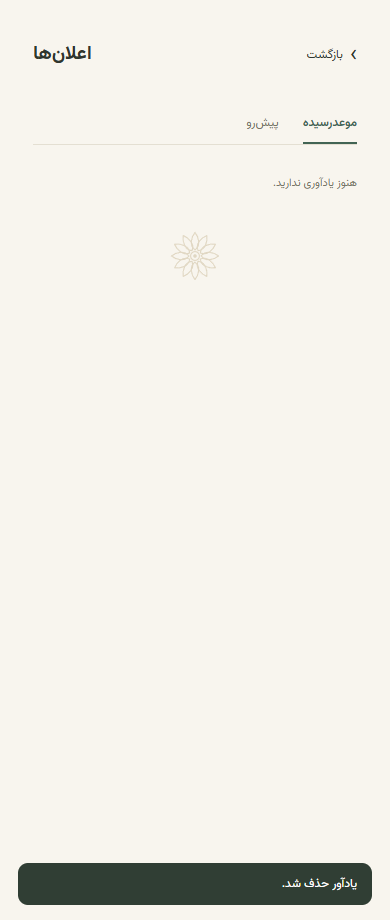
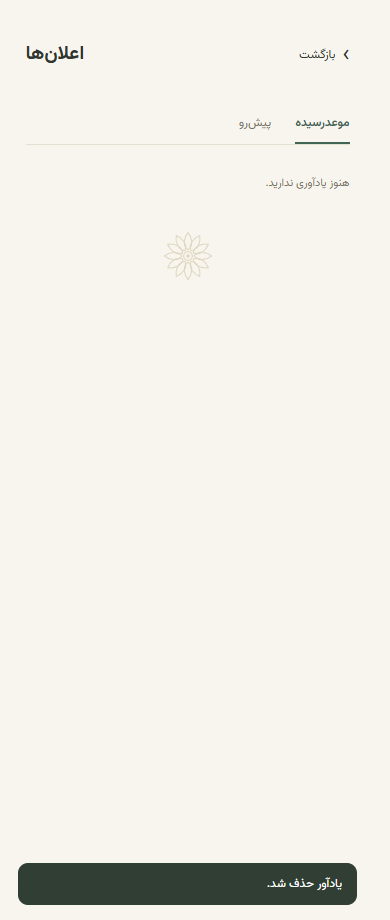
Stabilize month picker and calendar layout with consistent controls

diff --git a/app.js b/app.js
@@ -39,7 +39,7 @@ function renderNotes(){
     const actions=document.createElement('div');actions.className='note-actions';
     const created=creationLabel(note.createdAt);if(created)actions.append(created);
     const edit=document.createElement('button');edit.className='text-button';edit.textContent='ویرایش';edit.setAttribute('aria-label',`ویرایش یادداشت ${note.text.slice(0,40)}`);
-    edit.addEventListener('click',async()=>{if(draftDirty){notify('ابتدا یادداشت در حال نوشتن را ذخیره کنید.');return;}if(note.seriesId){const scope=await chooseScope('ویرایش تکرار');if(!scope)return;editingSeries=note.seriesId;editScope=scope;loadRepeat(data[`series:${note.seriesId}`],scope);}else{editingSeries=null;editScope=null;resetRepeat();}editingNote=note.key;$('note').value=note.text;$('remind-toggle').checked=(note.key.startsWith('reminder:')||note.remind);$('reminder-time').value=note.time||'09:00';updateComposer();$('note-status').textContent='ویرایش یادداشت';$('note').focus();});
+    edit.addEventListener('click',async()=>{if(draftDirty){notify('ابتدا یادداشت در حال نوشتن را ذخیره کنید.');return;}if(note.seriesId){const scope=await chooseScope('ویرایش تکرار');if(!scope)return;editingSeries=note.seriesId;editScope=scope;loadRepeat(data[`series:${note.seriesId}`],scope);}else{editingSeries=null;editScope=null;resetRepeat();}editingNote=note.key;$('note').value=note.text;$('remind-toggle').checked=(note.key.startsWith('reminder:')||note.remind);$('reminder-time').value=note.time||'09:00';updateComposer();$('note-status').textContent='ویرایش یادداشت';$('note').focus({preventScroll:true});});
     const remove=document.createElement('button');remove.className='text-button delete-note';remove.textContent='حذف';remove.setAttribute('aria-label',`حذف یادداشت ${note.text.slice(0,40)}`);
     remove.addEventListener('click',async()=>{remove.disabled=true;try{if(note.seriesId){const scope=await chooseScope('حذف تکرار');if(!scope){remove.disabled=false;return;}await request({type:'delete-series',seriesId:note.seriesId,date:note.date,scope});}else if((note.key.startsWith('reminder:')||note.remind))await request({type:'delete',id:note.id});else await storage.remove(note.key);if(editingNote===note.key){editingNote=null;editingSeries=null;editScope=null;resetRepeat();draftDirty=false;$('note').value='';$('remind-toggle').checked=false;drafts.delete(note.date);updateComposer();}await refresh();notify('یادداشت حذف شد.');}catch{remove.disabled=false;notify('حذف انجام نشد؛ دوباره تلاش کنید.');}});
     actions.append(edit,remove);article.append(text,actions);list.append(article);
@@ -84,8 +84,7 @@ function renderCalendar(){
   document.querySelectorAll('.weekdays span').forEach((el,i)=>el.textContent=weekdays[i]);
   $('month-title').textContent=`${months[view.month-1]} ${fa(view.year)}`;$('calendar').replaceChildren();
   const first=fromPersian(view.year,view.month,1),start=weekly?addDays(selected,-weekIndex(selected)):addDays(first,-weekIndex(first));
-  const next=view.month===12?new Date(fromPersian(view.year,12,1).getTime()+32*86400000):fromPersian(view.year,view.month+1,1);
-  const length=weekly?7:Math.ceil((weekIndex(first)+parts(addDays(next,-parts(next).day)).day)/7)*7;
+  const length=weekly?7:42;
   for(let i=0;i<length;i++){
     const date=addDays(start,i),p=parts(date),key=dayKey(date),button=document.createElement('button');button.className='day';
     for(const [name,yes] of [['outside',p.month!==view.month],['friday',weekIndex(date)===6],['today',key===dayKey(new Date())],['selected',key===dayKey(selected)]])button.classList.toggle(name,yes);
@@ -108,7 +107,7 @@ async function refresh(){data=await storage.get(null);if(!preferencesLoaded){wee
 document.querySelectorAll('[data-tab]').forEach(b=>b.addEventListener('click',()=>showTab(b.dataset.tab)));
 $('open-alerts').addEventListener('click',()=>showTab('alerts'));
 $('today').addEventListener('click',()=>selectDay(fromKey(dayKey(new Date()))));
-function closeMonthPicker(focus=false){$('month-picker').hidden=true;$('month-title').setAttribute('aria-expanded','false');if(focus)$('month-title').focus();}
+function closeMonthPicker(focus=false){$('month-picker').hidden=true;$('month-title').setAttribute('aria-expanded','false');if(focus)$('month-title').focus({preventScroll:true});}
 function renderMonthChoices(){
   $('jump-months').replaceChildren(...months.map((name,index)=>{
     const button=document.createElement('button');button.type='button';button.textContent=name;
@@ -117,14 +116,14 @@ function renderMonthChoices(){
       const date=fromPersian(+$('jump-year').value,index+1,1);
       weekly=false;closeMonthPicker();selectDay(date);
       storage.set({viewMode:'month'}).catch(()=>notify('ذخیره تنظیمات انجام نشد.'));
-      document.querySelector('#calendar .selected')?.focus();
+      document.querySelector('#calendar .selected')?.focus({preventScroll:true});
     });return button;
   }));
 }
 $('month-title').addEventListener('click',()=>{
   if(!$('month-picker').hidden){closeMonthPicker();return;}
   fillChoices('jump-year',Array.from({length:401},(_,i)=>1200+i),fa,view.year);renderMonthChoices();
-  $('month-picker').hidden=false;$('month-title').setAttribute('aria-expanded','true');$('jump-year').focus();
+  $('month-picker').hidden=false;$('month-title').setAttribute('aria-expanded','true');$('jump-year').focus({preventScroll:true});
 });
 $('jump-year').addEventListener('change',renderMonthChoices);
 document.addEventListener('keydown',e=>{if(e.key==='Escape'&&!$('month-picker').hidden){e.preventDefault();closeMonthPicker(true);}});

diff --git a/styles.css b/styles.css
@@ -75,3 +75,23 @@ textarea:focus,input:focus,select:focus{border-color:var(--accent);box-shadow:0 
 #message{background:#303e34}
 main::after{content:'';display:block;flex-shrink:0;width:56px;height:56px;margin:16px auto 24px;background:url('assets/rosette.svg') center/contain no-repeat;opacity:.28;pointer-events:none}
 @media(max-width:320px){.today-header h1{gap:6px;font-size:15px}.date-rosette{width:20px;height:20px}}
+/* Shared controls and stable layout: overlays do not push the calendar down. */
+:root{--surface:#fffdf8;--field:#eeece2;--radius:10px;--control-height:40px}
+html{scrollbar-gutter:stable;overflow-anchor:none}
+.panel{animation:none}
+.month-picker{position:absolute;z-index:4;inset-inline:0;top:58px;margin:0;padding:16px;max-height:min(340px,calc(100dvh - 170px));overflow-y:auto;overscroll-behavior:contain;box-shadow:0 6px 18px #30362f12}
+textarea,input,select,.month-picker,#series-scope{border-radius:var(--radius);background-color:var(--surface)}
+textarea{background-color:var(--field)}
+select,input:not([type=checkbox]):not([type=hidden]){min-height:var(--control-height)}
+.primary,.month-grid button{border-radius:var(--radius);min-height:36px}
+.time-24 select{min-height:36px}
+.composer-tools{min-height:52px}
+#reminder-time-row[hidden]{display:block!important;visibility:hidden;pointer-events:none}
+#note-status{display:block;min-height:19px}
+#note-status:empty{display:block}
+#repeat-days label{margin:6px 0;min-height:28px}
+#repeat-options select{margin-bottom:4px}
+#repeat-options summary{padding:8px 0}
+#repeat-edit-hint{margin-top:8px}
+#series-scope{padding:20px;border-color:var(--line)}
+#series-scope button{min-height:36px;border-radius:var(--radius)}

diff --git a/VERIFICATION.md b/VERIFICATION.md
@@ -6,3 +6,11 @@
 - With the extension UI closed, a real Chrome alarm invokes the notification API, persists delivery and schedules the next occurrence. Test accelerates the worker clock; OS banner visibility is not asserted.
 - Only the next series occurrence gets an alarm. Upcoming UI previews up to 30 future occurrences per series. Closing Chrome delays delivery until it runs again; an overdue series delivers one pending occurrence before advancing.
 - Local user records preserved. No cloud or OAuth permissions.
+
+## Version 1.4.2 — layout stability
+
+- Real MV3 regression passed.
+- Layout browser test checks unchanged calendar/tab coordinates, content width and scroll when opening/closing the month menu at 300px and 360px.
+- Twelve successive months retain the same calendar height; toggling reminder controls retains composer bounds.
+- Shared control colors, radii, heights and focus treatment; panel translation animation removed.
+- Run: `node tests/layout-browser.mjs`.

diff --git a/README.md b/README.md
@@ -1,6 +1,6 @@
 # روز · تقویم شمسی
 
-نسخهٔ ۱.۴.۱ — افزونهٔ سایدپنل کروم برای تقویم شمسی، یادداشت و یادآور؛ کاملاً محلی و بدون نیاز به حساب کاربری.
+نسخهٔ ۱.۴.۲ — افزونهٔ سایدپنل کروم برای تقویم شمسی، یادداشت و یادآور؛ کاملاً محلی و بدون نیاز به حساب کاربری.
 
 ![نمای تقویم با طرح ایرانی](screenshots/persian-theme.png)
 
